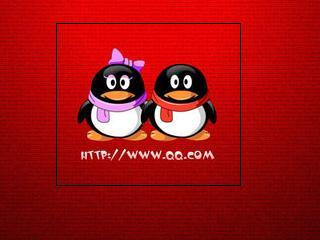
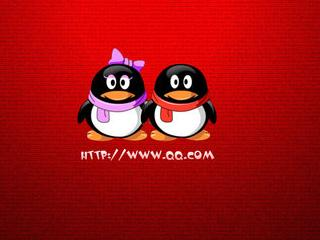
1. Fixed a bug when send the last packet; 2. Change a picture;

Changed region(s): [[0.1562, 0.0875, 0.7812, 0.7875]]

diff --git a/NXP/Project/USB_UVC_LPC/Src/usbuser.c b/NXP/Project/USB_UVC_LPC/Src/usbuser.c
@@ -31,6 +31,7 @@
 #define _JPG2_GLOBAL_
 #include "JGP2_Data.h"
 
+volatile DWORD UVC_Delay;
 volatile DWORD TestCnt;
 volatile DWORD JPG_Cnt;
 volatile DWORD Buf_Size;
@@ -105,6 +106,11 @@ void USB_WakeUp_Event (void) {
 #if USB_SOF_EVENT
 void USB_SOF_Event (void)
 {
+  /* Delay,only for test ! */
+  UVC_Delay++;
+  if(UVC_Delay < 0x200)
+    return;
+
   /* Payload header - SOF_Event_Buf[0~1] */
   if(JPG_Cnt == 0) /* Start of Frame */
   {
@@ -134,7 +140,10 @@ void USB_SOF_Event (void)
   {
     /* The last packet of jpg */
     if((JPG_size - JPG_Cnt) <= (EP3_MAX_PACKET - 2))
+    {
       SOF_Event_Buf[1] |= 0x02; /* EOF - End of Frame */
+      UVC_Delay = 0;            /* Clear the delay counter,only for test */
+    }
   }
 
   /* PTS - Presentation Time stamp */
@@ -393,8 +402,8 @@ void Write_To_Buf(void)
   else
   {
     memcpy((void *)(SOF_Event_Buf + PAYLOAD_HEADER_SIZE),(const void *)(JPG_data + JPG_Cnt),JPG_size - JPG_Cnt);
-    JPG_Cnt = 0;
     Buf_Size = JPG_size - JPG_Cnt + PAYLOAD_HEADER_SIZE;
+    JPG_Cnt = 0; /* JPG send over */
   }
 }
 

diff --git a/NXP/Project/USB_UVC_LPC/Inc/usbuser.h b/NXP/Project/USB_UVC_LPC/Inc/usbuser.h
@@ -72,6 +72,7 @@ extern void USB_Feature_Event   (void);
 
 extern void Write_To_Buf(void);
 
+extern volatile DWORD UVC_Delay;
 extern volatile DWORD TestCnt;
 extern volatile DWORD JPG_Cnt;
 extern volatile DWORD Buf_Size;

diff --git a/NXP/Project/USB_UVC_LPC/Src/uvcdemo.c b/NXP/Project/USB_UVC_LPC/Src/uvcdemo.c
@@ -45,6 +45,7 @@ int main (void) {
 #endif
 
   /* init */
+  UVC_Delay = 0;
   TestCnt = 0;
   JPG_Cnt = 0;
   PTS_Value = 0;
